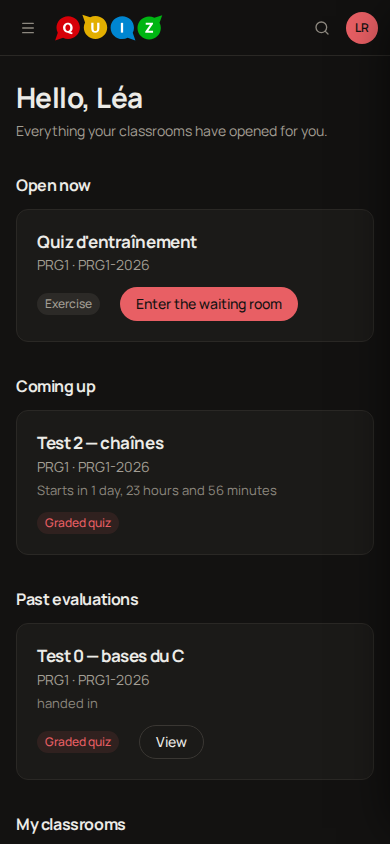
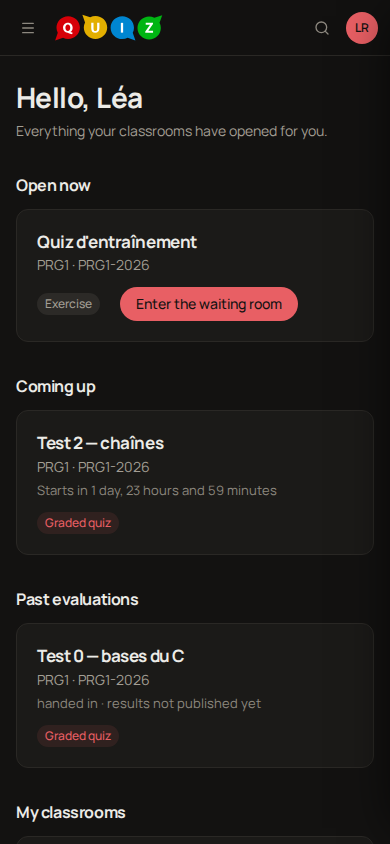
docs(guide): retake the student home and Handed in screenshots (#251) (#281)
After #203 a handed-in quiz with unpublished results has no button on the
student home, and the Handed in card offers only Back to home.

- player-done now shows Lea on the closed, unreleased "Test 0" (phase
  graded): the exercise it used before has immediate feedback, so its card
  rightly keeps See my results and could never show the new state.
- skipCoach closes a tip with its cross: a single tip has no Skip button,
  so the student home was captured with a coach bubble over it.
- Guide alt texts match the new pictures.

Changed region(s): [[0.2769, 0.8318, 0.6462, 0.8934], [0.0308, 0.955, 0.3385, 0.9858], [0.0923, 0.8626, 0.2769, 0.8934]]

diff --git a/docs/guide/students.md b/docs/guide/students.md
@@ -15,8 +15,8 @@ A **Classroom code** field sits at the bottom of your home. Use it only if your 
 Your home shows what your classrooms have opened for you, in three sections.
 
 <figure markdown="span">
-  ![The student home: an exercise open now with Enter the waiting room, a graded quiz coming up in two days, a past graded quiz with View, and the classroom card with extra time](../assets/screenshots/student-home-light.png#only-light)
-  ![The student home: an exercise open now with Enter the waiting room, a graded quiz coming up in two days, a past graded quiz with View, and the classroom card with extra time](../assets/screenshots/student-home-dark.png#only-dark)
+  ![The student home: an exercise open now with Enter the waiting room, a graded quiz coming up in two days, a past graded quiz handed in with results not published yet, and the classroom card with extra time](../assets/screenshots/student-home-light.png#only-light)
+  ![The student home: an exercise open now with Enter the waiting room, a graded quiz coming up in two days, a past graded quiz handed in with results not published yet, and the classroom card with extra time](../assets/screenshots/student-home-dark.png#only-dark)
   <figcaption>The home: what is open now, what is coming up, what is past, and your classrooms.</figcaption>
 </figure>
 
@@ -135,8 +135,8 @@ Press **Hand in** in the header when you are done. The confirmation names how ma
 Once handed in, the player is replaced by a card that says **Handed in**, with **Back to home**. When your teacher shows the results right after hand-in, the card also offers **See my results**.
 
 <figure markdown="span">
-  ![The Handed in card: Your answers are with your teacher, with Back to home](../assets/screenshots/player-done-light.png#only-light)
-  ![The Handed in card: Your answers are with your teacher, with Back to home](../assets/screenshots/player-done-dark.png#only-dark)
+  ![The Handed in card of a graded quiz whose results are not published: Your answers are with your teacher, with Back to home only](../assets/screenshots/player-done-light.png#only-light)
+  ![The Handed in card of a graded quiz whose results are not published: Your answers are with your teacher, with Back to home only](../assets/screenshots/player-done-dark.png#only-dark)
   <figcaption>After handing in.</figcaption>
 </figure>
 

diff --git a/docs/development/screenshots.md b/docs/development/screenshots.md
@@ -98,8 +98,9 @@ the API, so they change from one seed to the next.
 
 <!-- scenes:start -->
 Last full run: 2026-09-21, commit `828d8d8`. The `live-*` and `grading*`
-scenes were retaken on their own (`--only`) on 2026-09-28, on a fresh seed,
-which is why their ids differ from the other rows.
+scenes were retaken on their own (`--only`) on 2026-09-28, and the
+`student-home` and `player-done` scenes on 2026-09-29, each time on a fresh
+seed, which is why their ids differ from the other rows.
 
 | Scene | Persona | Path | Phase | Action after load | Viewport |
 | --- | --- | --- | --- | --- | --- |
@@ -164,7 +165,7 @@ which is why their ids differ from the other rows.
 | `player-code` | lea | `/take/2d031274-da46-4a00-9f8d-f5056e933cb9` | running | Moved to question 5 through the progress strip. | 1440×900 |
 | `player-run` | lea | `/take/2d031274-da46-4a00-9f8d-f5056e933cb9` | running | Moved to question 5, clicked “Run”, waited for “Compiled”. | 1440×900, full page |
 | `player-submit` | lea | `/take/2d031274-da46-4a00-9f8d-f5056e933cb9` | running | Clicked “Hand in”. | 1440×900 |
-| `player-done` | noah | `/take/2d031274-da46-4a00-9f8d-f5056e933cb9` | running | Nothing: the page as it loads. | 1440×900 |
+| `player-done` | lea | `/take/f7905f9d-aa9d-4790-b441-5bfa227f6b12` | graded | Nothing: the page as it loads. | 1440×900 |
 | `feedback-pending` | lea | `/attempts/3f4538b5-1a06-4271-8d98-735ab8b03c8f/feedback` | graded | Nothing: the page as it loads. | 1440×900 |
 | `results-released` | teacher | `/evaluations/606c9f70-0a92-4ebd-8958-0ade5a342da7/results` | released | Nothing: the page as it loads. | 1440×900, full page |
 | `feedback` | lea | `/attempts/3f4538b5-1a06-4271-8d98-735ab8b03c8f/feedback` | released | Nothing: the page as it loads. | 1440×900, full page |
